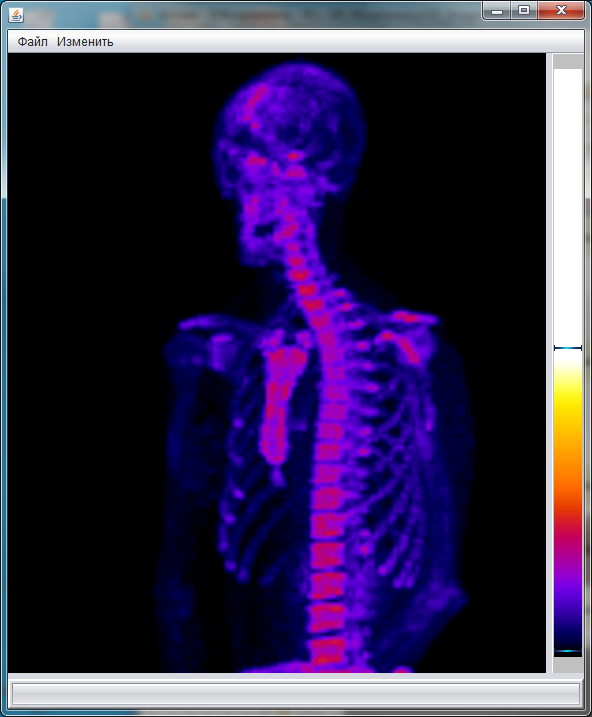
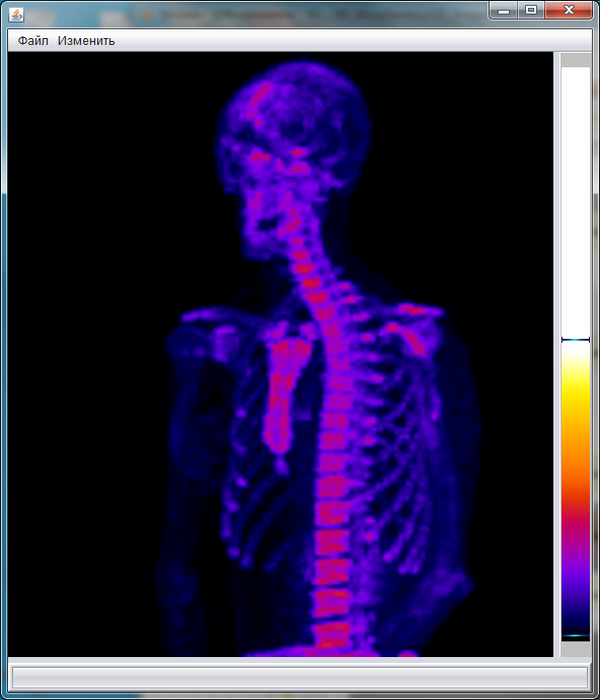
still editing

diff --git a/index.html b/index.html
@@ -100,7 +100,7 @@ The screen is split into two parts left one is tab control displaying image as a
 Right part is occupied the chart control displaying activity curves of two ROIs and extrapolation of one of them.        
 Beyound there are two more applications embedded: namely VIEWER and TOMO. 
 The former is pretty simple image viewing aid while the latter is capable of showing 3D series as MIP. 
-<img src="images/TOMO-PET.png" alt="TOMO app - MIP representing PET image" style="width:640px;height:338px;">
+<img src="images/TOMO-PET.png" alt="TOMO app - MIP representing PET image" style="width:600px;height:700px;">
 It even can open multiimage series placed in the same location.      
 
 <br> <b><i>SIC</b>: application requires JDK <b><u>8 </u></b> to run <br> 
